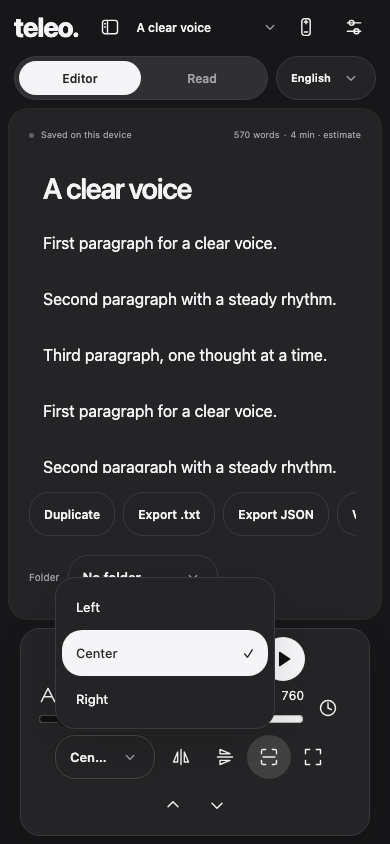
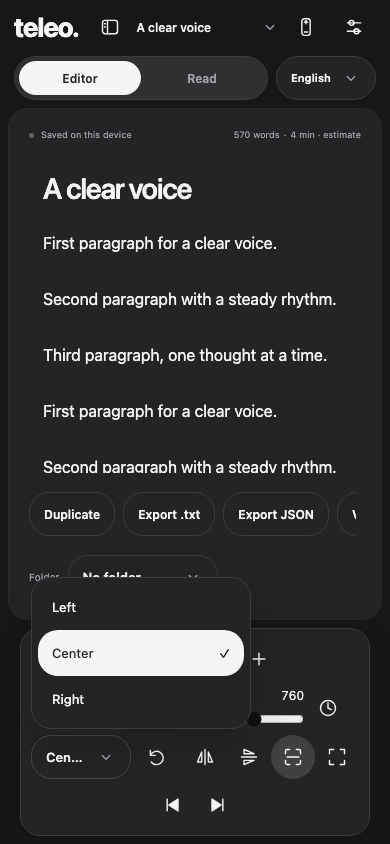
docs: refresh final toolbar screenshots and verification results

diff --git a/docs/TELEO_VISUAL_QA.md b/docs/TELEO_VISUAL_QA.md
@@ -12,6 +12,7 @@
 | Дополнительные переходы меню Chromium/WebKit | 6/6 PASS | все шесть пунктов quick menu, детали, fullscreen fallback, возврат к основному экрану |
 | Сравнение обновлённых эталонов без update | 12/12 PASS; финальный dock дополнительно 12/12 PASS | прежние picker/locale и paired remote потоки, намеренно обновлённые изображения |
 | Финальные короткие экраны/landscape | 6/6 PASS | доступность последнего пункта прокручиваемого меню, playback, seek, reconnect, изображения |
+| Финальные обзорные снимки / viewport | 2/2 PASS, без обновления эталонов | новая последовательность dock, desktop/tablet/phone/landscape |
 | build / typecheck / ESLint / staging dry-run | PASS | `staging:check` завершается с `--dry-run`, публикации нет |
 | HTTPS LAN route/preflight | PASS | проверенный сертификат, точный Origin, 403 постороннему origin |
 | Настоящая HTTPS/WSS LAN-пара | PASS на этом Mac | room, auth, явное approval, команда и ACK/state, revoke |

diff --git a/docs/TELEO_TEST_RESULTS.md b/docs/TELEO_TEST_RESULTS.md
@@ -364,3 +364,12 @@
 | mobile / v031.spec.ts / en: every host picker and contextual menu selects and dismisses | passed | 8055 |
 | mobile / v031.spec.ts / uk: every host picker and contextual menu selects and dismisses | passed | 7955 |
 | mobile / v031.spec.ts / ru: every host picker and contextual menu selects and dismisses | passed | 7867 |
+
+## Контрольные снимки окончательной панели
+
+2 PASS, 24.9 с; исходный код 74768ea, эталоны не обновлялись.
+
+| Проект / файл / тест | Результат | мс |
+|---|---|---:|
+| desktop / redesign.spec.ts / ru: desktop, tablet and phone layouts preserve editing and prompting | passed | 12684 |
+| desktop / v031.spec.ts / picker positioning at every required viewport; outside/Escape and dark sheet fallback | passed | 8662 |
